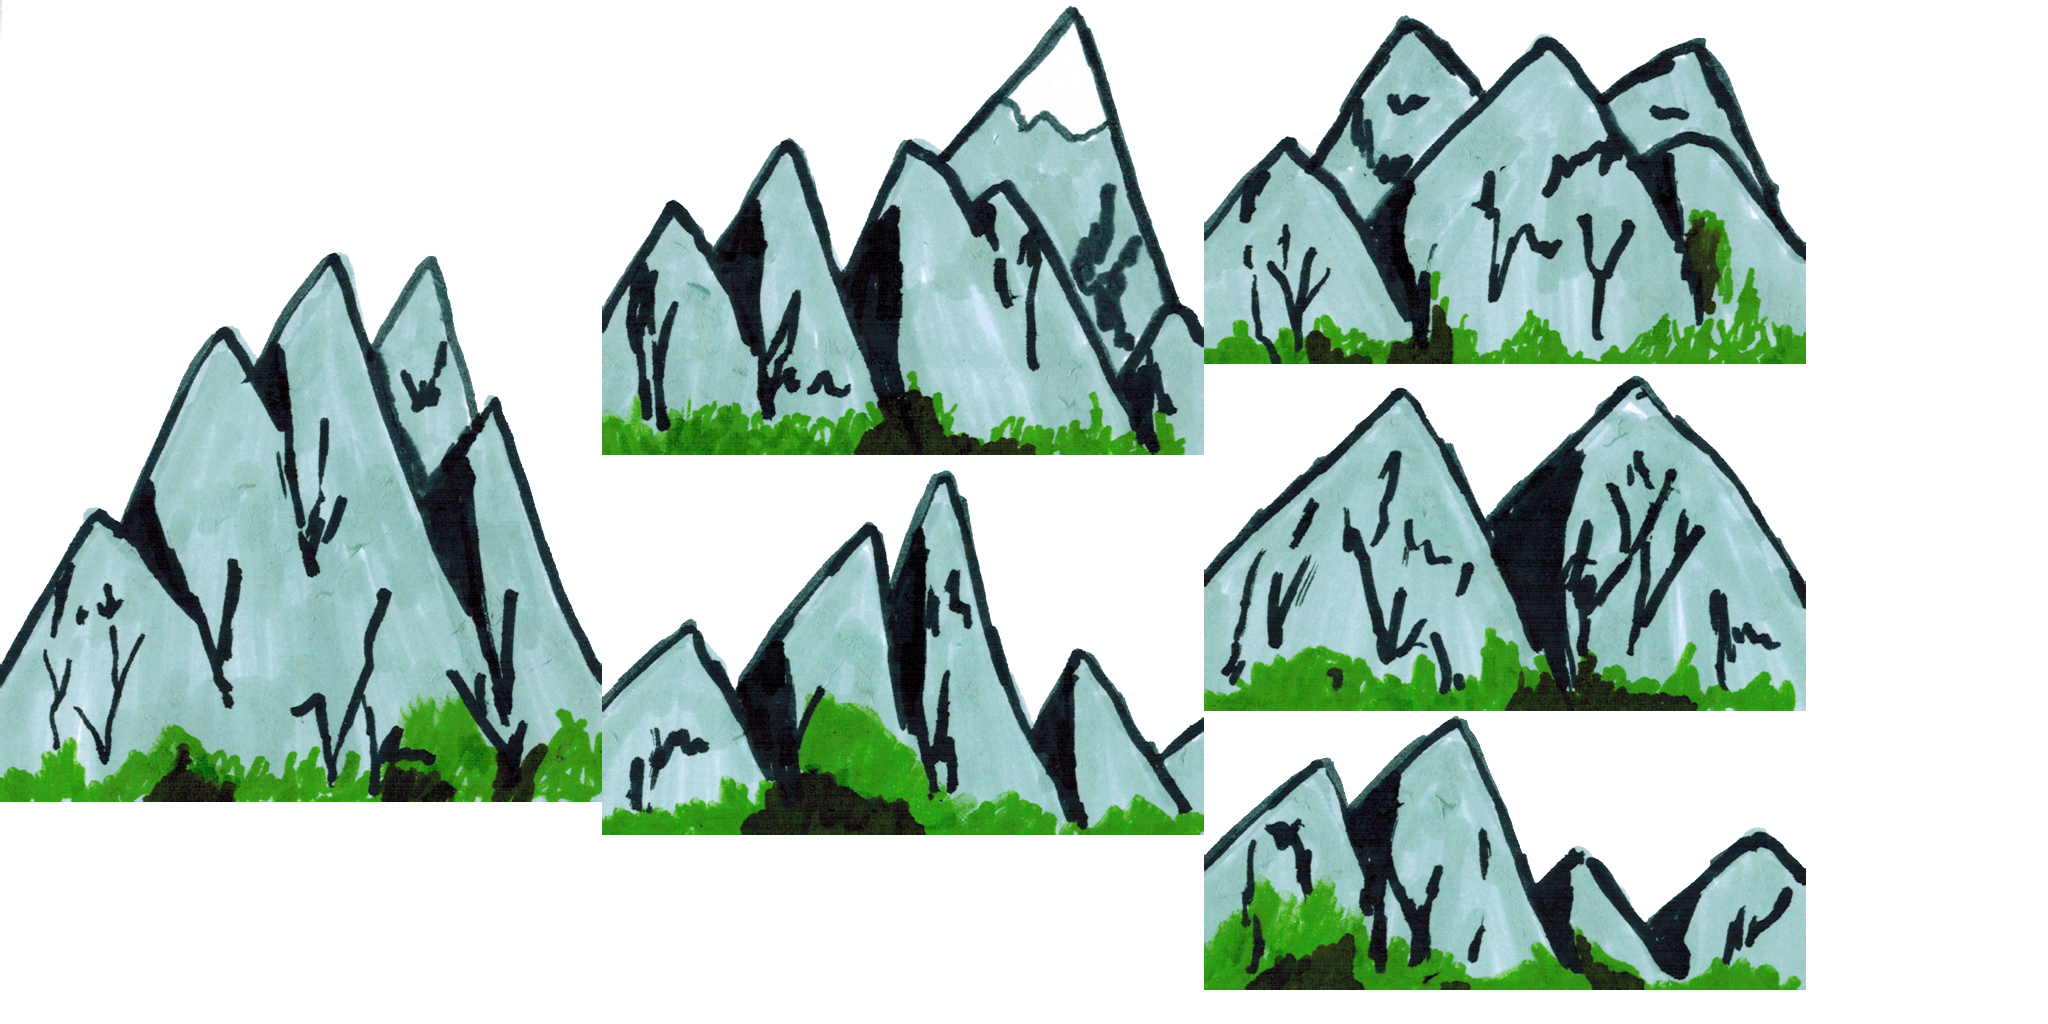
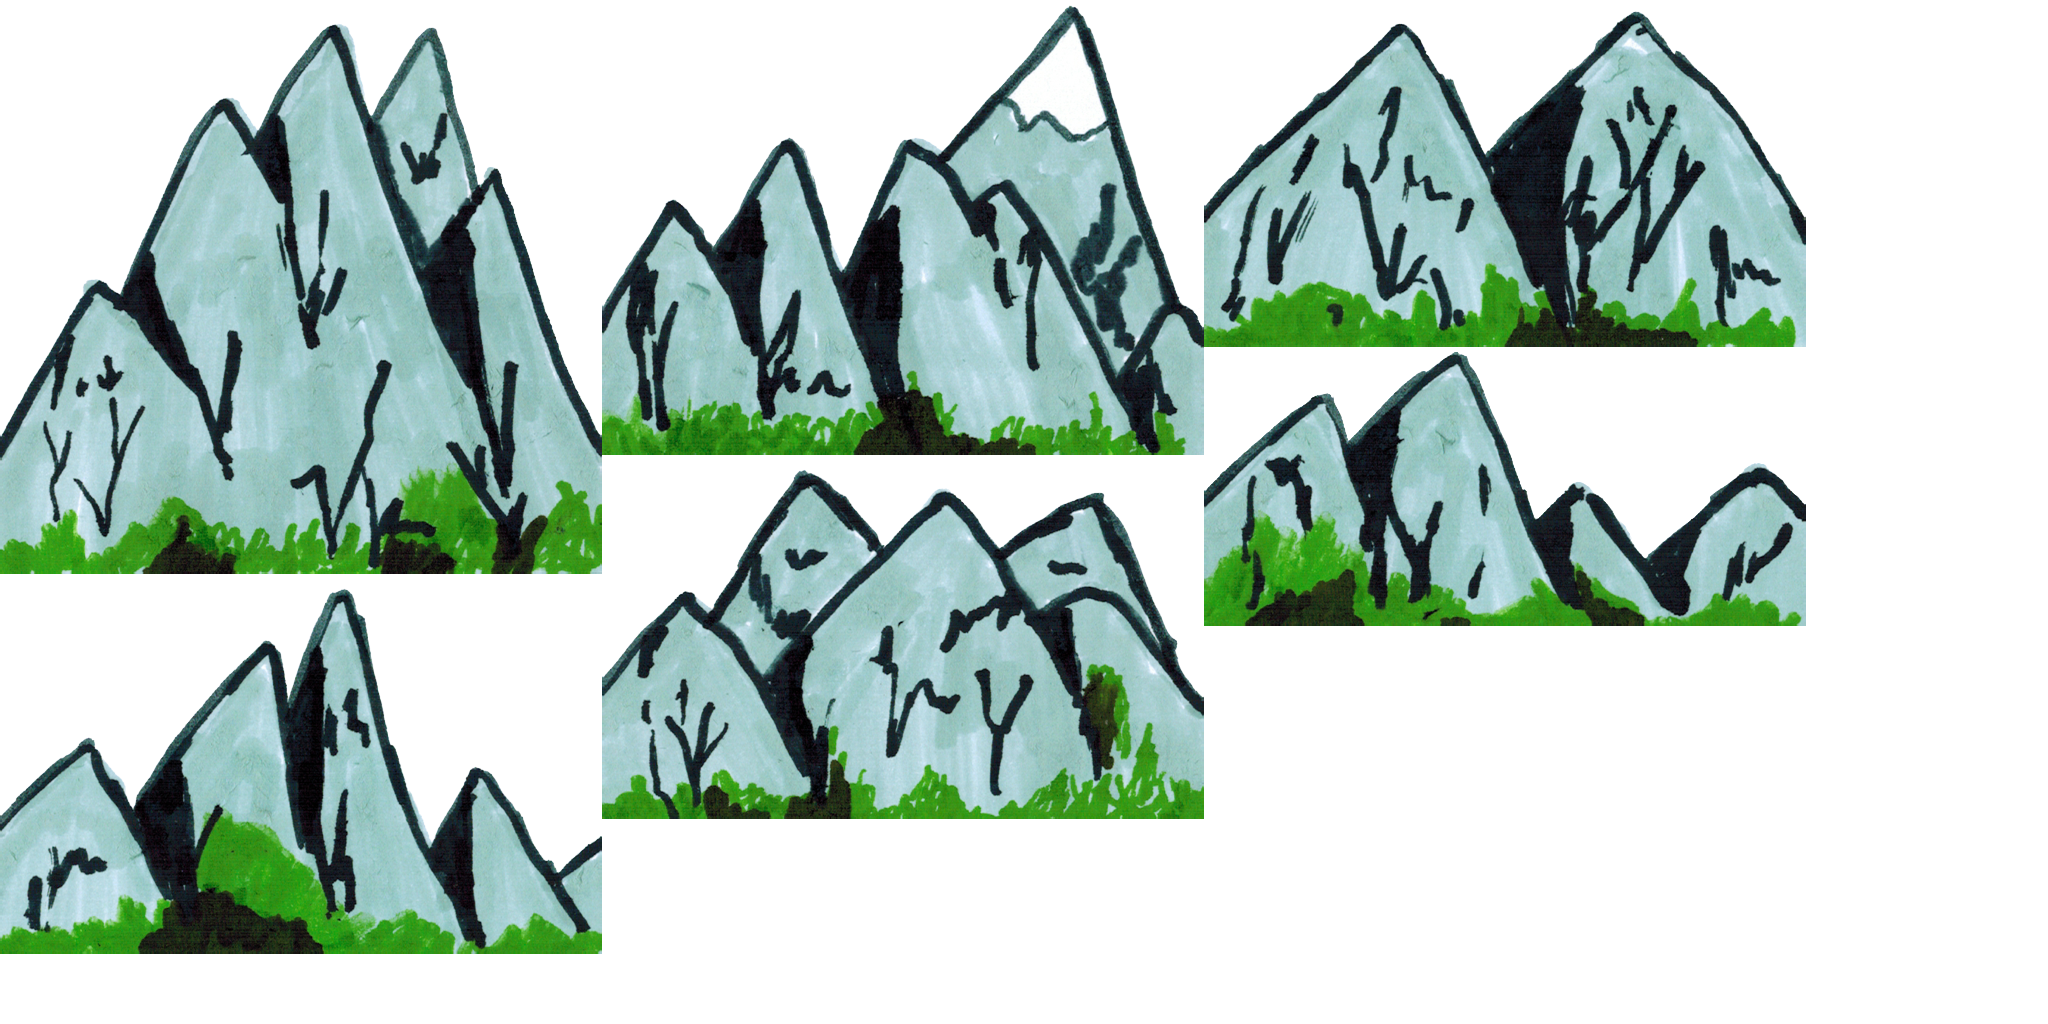
Parallax properly implemented on a sliding scale of 0 (layer moves with player) to 1 (layer doesn't move at all).

diff --git a/Assets/Scripts/LevelManager.cs b/Assets/Scripts/LevelManager.cs
@@ -74,15 +74,30 @@ public class LevelManager : MonoBehaviour {
 		LevelLayer ll3 = go3.AddComponent<LevelLayer>();
 		ll3.levelManager = this;
 		ll3.gameCamera   = gameCamera;
-		ll3.levelNumber  = "level_02";
+		ll3.levelNumber  = "level_01";
 		ll3.levelPart    = "backgrounds";
-		ll3.yPosition    = 5.5f;
+		ll3.yPosition    = 5.2f;
 		ll3.sortLayerName = "BackgroundMedial";
 		ll3.needsCollider = false;
 		ll3.parallaxLayer = true;
-		ll3.parallaxMovementFactor = 0.5f;
+		ll3.parallaxMovementFactor = 0.4f;
 		ll3.SetupLevelLayer();
 		layers.Add(go3);
+
+		// Distal Background Layer
+		GameObject go4 = new GameObject("Distal Background layer");
+		LevelLayer ll4 = go4.AddComponent<LevelLayer>();
+		ll4.levelManager = this;
+		ll4.gameCamera   = gameCamera;
+		ll4.levelNumber  = "level_02";
+		ll4.levelPart    = "backgrounds";
+		ll4.yPosition    = 5.3f;
+		ll4.sortLayerName = "BackgroundDistal";
+		ll4.needsCollider = false;
+		ll4.parallaxLayer = true;
+		ll4.parallaxMovementFactor = 0.7f;
+		ll4.SetupLevelLayer();
+		layers.Add(go4);
 	}
 	void Start () {
 		
@@ -113,7 +128,7 @@ public class LevelLayer : MonoBehaviour {
 	private int numTiles;
 	private static int levelSize = 100;
 	private int[] levelLayout = new int[levelSize];
-	private static int tileBuffer  = 4;
+	private static int tileBuffer = 4;
 	private List<GameObject> objectsNoLongerNeeded;
 	private Object[] layerSpecificDecorations;
 	private Object[] layerSprites;
@@ -146,14 +161,13 @@ public class LevelLayer : MonoBehaviour {
 	}
 
 	void Update(){
-		// TODO: Parallax
 		int cameraFrame;
 		
 		if (parallaxLayer){
 			parallaxParent.transform.position = new Vector2(gameCamera.transform.position.x * parallaxMovementFactor,
 			 											    gameCamera.transform.position.y);
 
-			cameraFrame = (int)((parallaxParent.transform.position.x / tileWidth));
+			cameraFrame = (int)(((gameCamera.transform.position.x - parallaxParent.transform.position.x) / tileWidth));
 		} else {
 			cameraFrame = (int)((gameCamera.transform.position.x / tileWidth));
 		}
@@ -187,6 +201,10 @@ public class LevelLayer : MonoBehaviour {
 
 		if (parallaxLayer){
 			parallaxParent = new GameObject("Parallax Parent");
+			// SpriteRenderer sr = parallaxParent.AddComponent<SpriteRenderer>();
+			// sr.sprite = Resources.Load<Sprite>("tracker");
+			// sr.sortingLayerName = "GroundFront";
+			// parallaxParent.SetActive(true);
 			parallaxParent.transform.position =   new Vector2(gameCamera.transform.position.x * parallaxMovementFactor,
 			 											      gameCamera.transform.position.y);
 		}
@@ -374,8 +392,8 @@ public class LevelLayer : MonoBehaviour {
 				// tile number as a seed.
 				if (sortLayerName == "Ground"){
 					Random.InitState(levelManager.randomSeed + ii);
-					int numFront = (int)Random.Range(5,7);
-					int numBack  = (int)Random.Range(5,7);
+					int numFront = (int)Random.Range(2,4);
+					int numBack  = (int)Random.Range(2,4);
 
 					addGroundDecorations(numFront,"GroundFront",tilecopy);
 					addGroundDecorations(numBack, "GroundBack",tilecopy);

diff --git a/Assets/Scripts/SkyObjectController.cs b/Assets/Scripts/SkyObjectController.cs
@@ -28,10 +28,12 @@ public class SkyObjectController : MonoBehaviour {
 		SpriteRenderer sr = thisSkyObject.AddComponent<SpriteRenderer>();
 		sr.sprite = skySprite;
 		int num = (int)Random.Range(0,100);
-		if (num > 50){
+		if (num > 60){
 			sr.sortingLayerName = "GroundBack";
-		} else {
+		} else if (num > 30) {
 			sr.sortingLayerName = "GroundFront";
+		} else {
+			sr.sortingLayerName = "BackgroundMedialFront";
 		}
 
 		skyObjectSpeed = Random.Range(100,200)/10000f;
